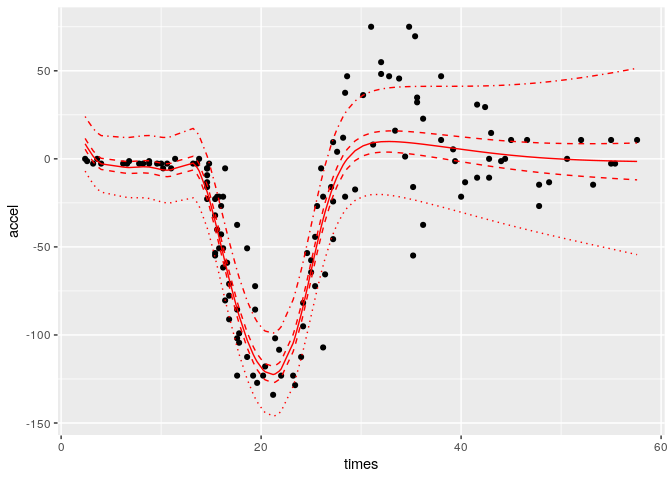
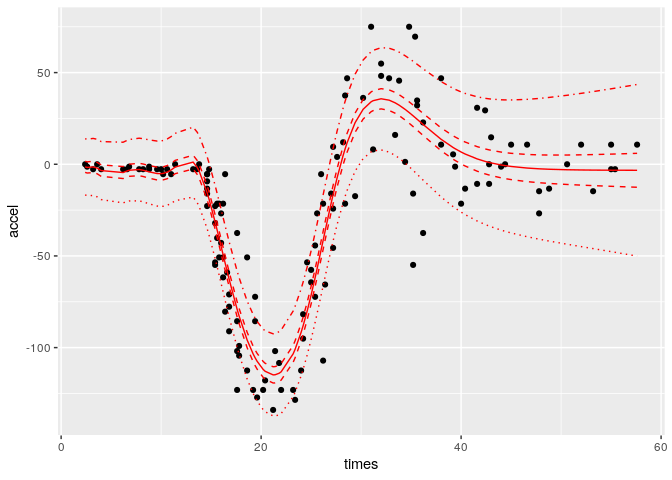
add functionality for mixture same family distribution and examples

diff --git a/README.md b/README.md
@@ -48,6 +48,7 @@ Examples
     1.  [Deep Mixed Model for Wage Panel Data](#deep-mixed-model-for-wage-panel-data)
     2.  [Deep Quantile Regression on Motorcycle Data](#deep-quantile-regression-on-motorcycle-data)
     3.  [High-Dimensional Ridge and Lasso Regression on Colon Cancer Data](#high-dimensional-ridge-and-lasso-regression)
+    4.  [Mixture Distribution for Acidity Modeling](#mixture-of-normals)
 8.  [Unstructured Data Examples](#unstructured-data-examples)
     1.  [MNIST Pictures with Binarized Response](#mnist-zeros)
     2.  [MNIST Pictures with Multinomial Response](#mnist-multinomial)
@@ -668,6 +669,8 @@ res = data.frame(RMSE = NA, time = NA)
 
 nrsims <- 20
 
+best_rmse <- Inf
+
 for(sim_iteration in 1:nrsims){
   
   train_ind <- sample(1:nrow(mcycle), 90)
@@ -698,6 +701,27 @@ for(sim_iteration in 1:nrsims){
   
   rmse <- sqrt(mean((pred-test$accel)^2))
   
+  if(!is.nan(rmse) && best_rmse > rmse){
+    
+    #### get mean and quantiles
+    mean <- mod_deep %>% mean(data = mcycle)
+    q40 <- mod_deep %>% quantile(data = mcycle, value = 0.4)
+    q60 <- mod_deep %>% quantile(data = mcycle, value = 0.6)
+    q10 <- mod_deep %>% quantile(data = mcycle, value = 0.1)
+    q90 <- mod_deep %>% quantile(data = mcycle, value = 0.9)
+    
+    #### for plotting
+    fitdf <- cbind(mcycle, data.frame(mean = mean,
+                                      q40 = q40,
+                                      q60 = q60,
+                                      q10 = q10,
+                                      q90 = q90)
+    )
+    
+    best_rmse <- rmse
+    
+  }
+  
   res[sim_iteration, ] <- c(rmse, as.numeric(difftime(et,st,units="mins")))
   
 }
@@ -707,24 +731,10 @@ apply(res, 2, function(x) c(mean(x, na.rm=T), sd(x, na.rm=T)))
 ```
 
     ##          RMSE       time
-    ## [1,] 42.69921 1.38177993
-    ## [2,] 19.36599 0.08203576
+    ## [1,] 38.04549 1.34436015
+    ## [2,] 16.74510 0.03677722
 
 ``` r
-#### plot mean and quantiles
-mean <- mod_deep %>% mean(data = mcycle)
-q40 <- mod_deep %>% quantile(data = mcycle, value = 0.4)
-q60 <- mod_deep %>% quantile(data = mcycle, value = 0.6)
-q10 <- mod_deep %>% quantile(data = mcycle, value = 0.1)
-q90 <- mod_deep %>% quantile(data = mcycle, value = 0.9)
-
-fitdf <- cbind(mcycle, data.frame(mean = mean,
-                                  q40 = q40,
-                                  q60 = q60,
-                                  q10 = q10,
-                                  q90 = q90)
-)
-
 library(reshape2)
 library(ggplot2)
 
@@ -885,6 +895,101 @@ plot(coef[[1]][[1]])
 
 ![](README_files/figure-markdown_github/unnamed-chunk-12-4.png)
 
+Mixture of Normals
+------------------
+
+We here estiamte the mixture of three normal distributions to fit the model to the acidity data, a data set showing the acidity index for 155 lakes in the Northeastern United States.
+
+``` r
+# load data
+library("gamlss.data")
+```
+
+    ## 
+    ## Attaching package: 'gamlss.data'
+
+    ## The following object is masked from 'package:datasets':
+    ## 
+    ##     sleep
+
+``` r
+data(acidity)
+
+# softmax function
+logsumexp <- function (x) {
+  y = max(x)
+  y + log(sum(exp(x - y)))
+}
+softmax <- function (x) {
+  exp(x - logsumexp(x))
+}
+
+
+
+mod <- deepregression(acidity$y-mean(acidity$y), 
+                      list_of_formulae = list(~ 1, #mixtures
+                                              ~1, ~1, ~1, # means
+                                              ~1, ~1, ~1 # sds
+                      ),
+                      data = acidity,
+                      list_of_deep_models = NULL, 
+                      mixture_dist = 3,
+                      dist_fun = mix_dist_maker())
+
+
+cvres <- mod %>% cv(epochs = 500, cv_folds = 5)
+```
+
+    ## Fitting Fold  1  ... 
+    ## Done in 35.36168  secs 
+    ## Fitting Fold  2  ... 
+    ## Done in 34.21259  secs 
+    ## Fitting Fold  3  ... 
+    ## Done in 33.63657  secs 
+    ## Fitting Fold  4  ... 
+    ## Done in 33.85886  secs 
+    ## Fitting Fold  5  ... 
+    ## Done in 33.94692  secs
+
+![](README_files/figure-markdown_github/unnamed-chunk-13-1.png)
+
+``` r
+mod %>% fit(epochs = stop_iter_cv_result(cvres), 
+            validation_split = NULL, view_metrics = FALSE)
+coefinput <- unlist(mod$model$get_weights())
+(means <- coefinput[c(2:4)])
+```
+
+    ## [1] -0.2290305  1.3202169 -0.8790442
+
+``` r
+(stds <- exp(coefinput[c(5:7)]))
+```
+
+    ## [1] 0.6950519 0.4000296 0.2292812
+
+``` r
+(pis <- softmax(coefinput[8:10]*coefinput[1]))
+```
+
+    ## [1] 0.2913544 0.3130229 0.3956226
+
+``` r
+library(distr)
+```
+
+``` r
+mixDist <- UnivarMixingDistribution(Norm(means[1],stds[1]),
+                                    Norm(means[2],stds[2]),
+                                    Norm(means[3],stds[3]),
+                                    mixCoeff=pis)
+
+plot(mixDist, to.draw.arg="d", ylim=c(0,1.4)) 
+with(acidity, hist(y-mean(y), breaks = 100, add=TRUE, freq = FALSE))
+```
+
+![](README_files/figure-markdown_github/unnamed-chunk-13-2.png)
+
 Unstructured Data Examples
 ==========================
 
@@ -932,7 +1037,7 @@ pred <- mod %>% predict(x_test)
 boxplot(pred ~ y_test, ylab="Predicted Probability", xlab = "True Label")
 ```
 
-![](README_files/figure-markdown_github/unnamed-chunk-13-1.png)
+![](README_files/figure-markdown_github/unnamed-chunk-14-1.png)
 
 MNIST Multinomial
 -----------------
@@ -988,16 +1093,16 @@ table(data.frame(pred=apply(pred,1,which.max)-1,
 
     ##     truth
     ## pred    0    1    2    3    4    5    6    7    8    9
-    ##    0  967    0    9    2    0    6   11    1    6    7
-    ##    1    0 1120    1    1    1    1    3    7    2    6
-    ##    2    0    4  966   13    3    0    2   21    6    1
-    ##    3    1    2   11  959    0   22    0    1   13   15
-    ##    4    0    0    7    0  945    5    5    4    8   22
-    ##    5    3    1    2    6    0  826   11    0    4    6
-    ##    6    5    3    6    0   10   11  922    0    8    1
-    ##    7    2    0   10   12    2    3    0  980    9   11
-    ##    8    2    5   18   14    3   14    4    1  913    4
-    ##    9    0    0    2    3   18    4    0   13    5  936
+    ##    0  968    0   11    1    1    6    9    0    3    8
+    ##    1    0 1121    1    0    1    1    3    7    3    6
+    ##    2    0    4  978   11    5    0    0   19    5    1
+    ##    3    1    2    7  959    0   19    1    3   14   15
+    ##    4    0    1    8    0  938    3    6    2    7   23
+    ##    5    3    1    0    8    0  840    7    1   10    5
+    ##    6    5    4    6    0   13    9  926    0    8    1
+    ##    7    2    0    9   13    1    0    0  984    7    7
+    ##    8    1    2   11   13    3    9    6    0  913    7
+    ##    9    0    0    1    5   20    5    0   12    4  936
 
 Text as Input
 -------------
@@ -1074,4 +1179,4 @@ pred <- mod %>% predict(as.data.frame(x_test))
 boxplot(pred ~ y_test,  ylab="Predicted Probability", xlab = "True Label")
 ```
 
-![](README_files/figure-markdown_github/unnamed-chunk-16-1.png)
+![](README_files/figure-markdown_github/unnamed-chunk-17-1.png)
